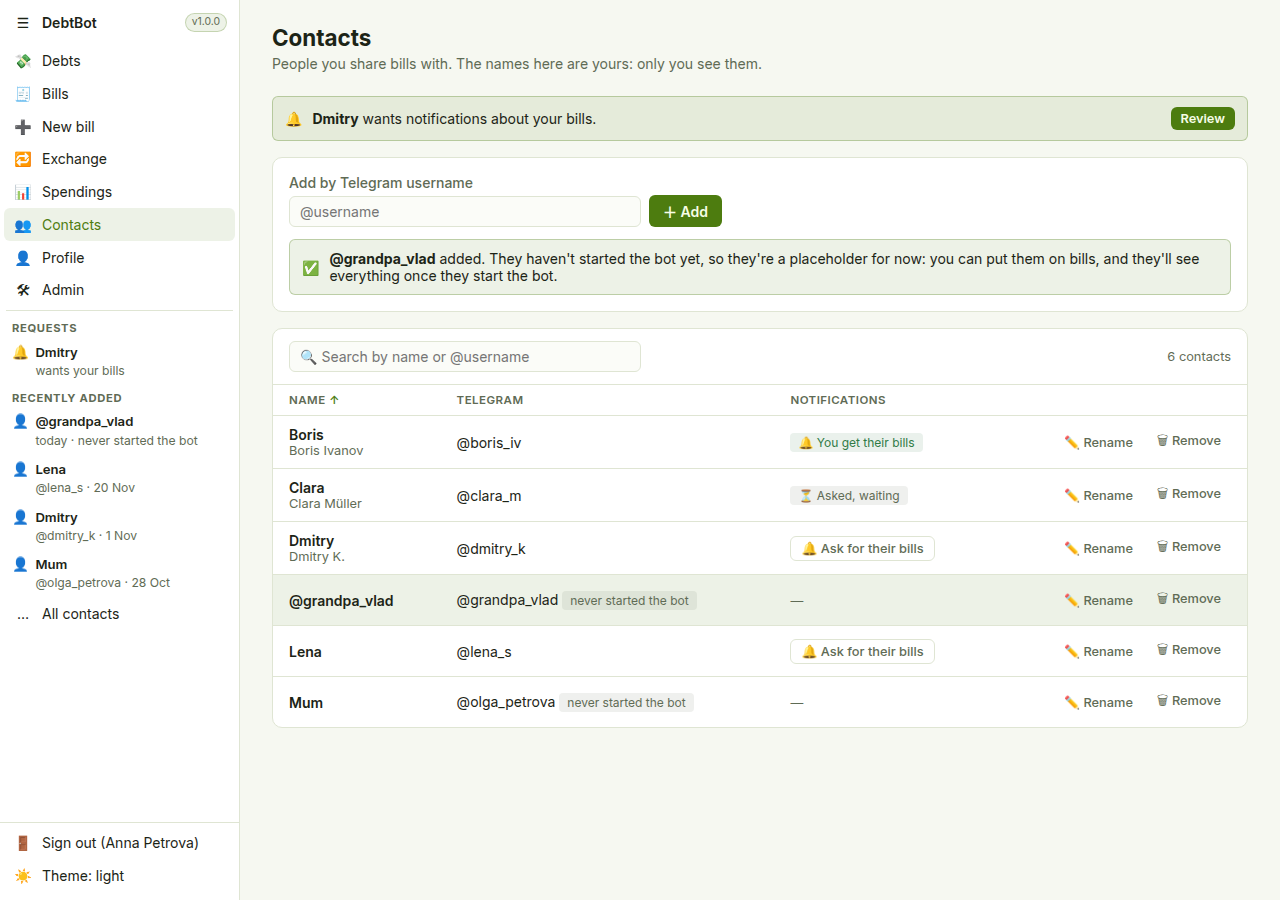
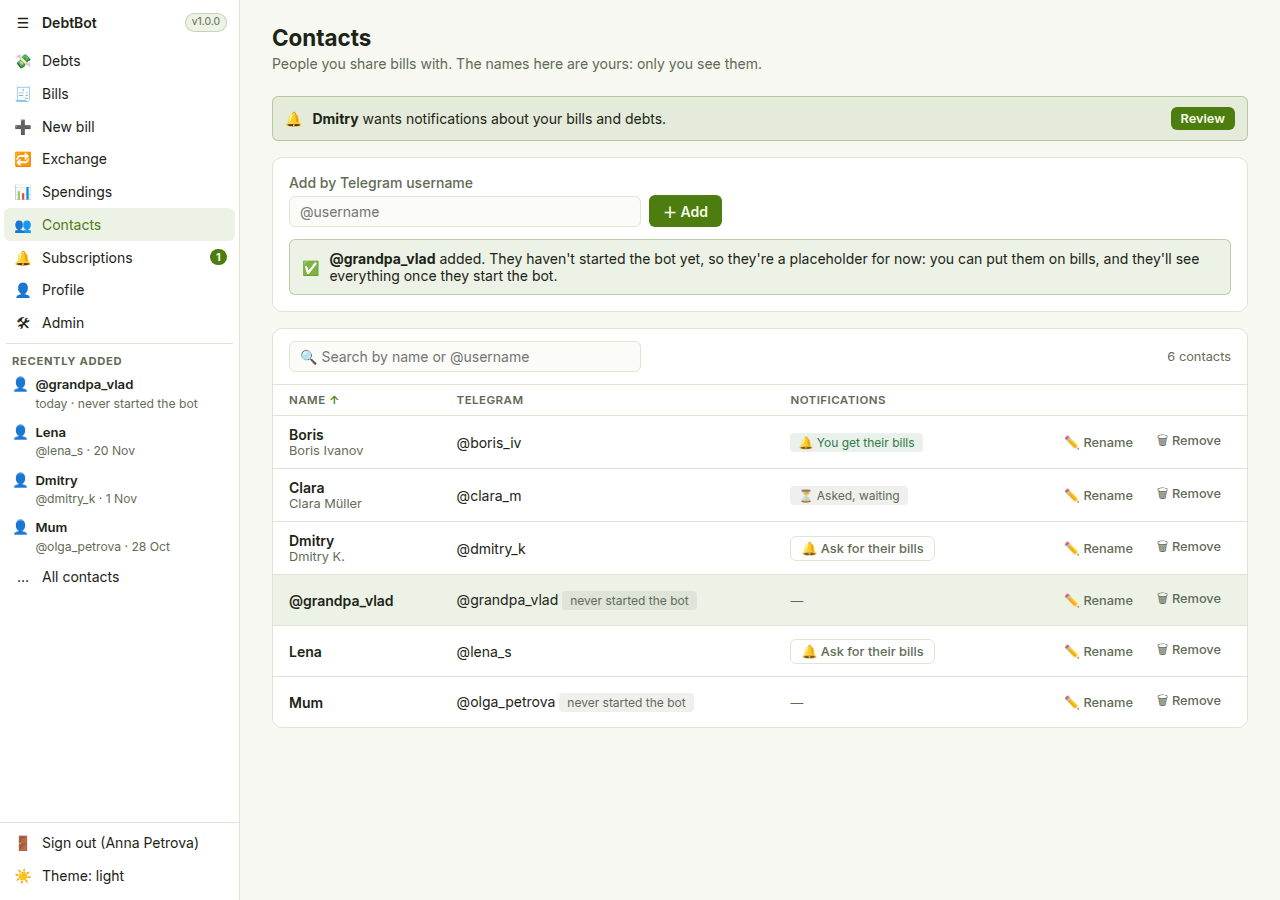
web-ui mockups: Subscriptions page and Profile approved; Contacts updated
Subscriptions moved out of Contacts into its own sidebar page after
Contacts (/subscriptions) with a count badge. Mockup shell nav updated.

Claude-Session: https://claude.ai/code/session_01LEFDEtN3pU82SKsCm3bDfW

Changed region(s): [[0.0, 0.28, 0.1562, 0.6844], [0.4688, 0.1244, 0.5312, 0.1556], [0.1562, 0.28, 0.1875, 0.3111]]

diff --git a/DebtBot.Doc/web-ui/mockups/profile/profile.html b/DebtBot.Doc/web-ui/mockups/profile/profile.html
@@ -1,0 +1,100 @@
+<!doctype html>
+<html lang="en">
+<head>
+<meta charset="utf-8">
+<meta name="viewport" content="width=device-width, initial-scale=1">
+<title>DebtBot Profile mockup</title>
+<link rel="stylesheet" href="../common/mock.css">
+<style>
+  .form { max-width: 34rem; }
+  .field + .field { margin-top: 1rem; }
+  .field .help { margin-top: .3rem; font-size: .8rem; color: var(--text-muted); }
+  .field .err { margin-top: .3rem; font-size: .8rem; color: var(--danger); }
+  .input.bad { border-color: var(--danger); box-shadow: 0 0 0 3px color-mix(in srgb, var(--danger) 18%, transparent); }
+  .foot { display: flex; align-items: center; gap: .75rem; margin-top: 1.25rem; flex-wrap: wrap; }
+  .ok { color: var(--success); font-size: .875rem; }
+  .kv { display: grid; grid-template-columns: 10rem 1fr; gap: .6rem 1rem; font-size: .9rem; align-items: center; }
+  .phone .kv { grid-template-columns: 1fr; gap: .15rem; }
+  .phone .kv dd { margin-bottom: .6rem; }
+  .kv dt { color: var(--text-muted); }
+  .kv dd { margin: 0; }
+  .mb { margin-bottom: 1rem; }
+  ol.steps { margin: .5rem 0 0; padding-left: 1.25rem; font-size: .9rem; line-height: 1.7; }
+  code { font-family: ui-monospace, monospace; font-size: .85em; background: var(--surface-2); border-radius: 4px; padding: .05rem .35rem; }
+</style>
+</head>
+<body>
+<script>
+  const field = (label, value, o = {}) => `<div class="field"><label class="label">${label}</label>
+    <input class="input${o.bad ? ' bad' : ''}${o.focus ? ' focus' : ''}" ${o.type ? `type="${o.type}"` : ''} value="${value}" placeholder="${o.ph ?? ''}"${o.ro ? ' readonly style="opacity:.7"' : ''}>
+    ${o.err ? `<div class="err">${o.err}</div>` : o.help ? `<div class="help">${o.help}</div>` : ''}</div>`
+  const dots = '••••••••••'
+
+  function details(state) {
+    const bad = state === 'details-error'
+    return `<div class="title-row"><h1>Profile</h1></div><p class="sub muted">How you appear to people you share bills with.</p>
+      <div class="card form"><div class="card-head"><h2>🪪 Details</h2></div><div class="card-body">
+        ${field('Display name', bad ? '' : 'Anna Petrova', { bad, err: bad ? 'Enter a name (1–100 characters).' : '', help: 'Contacts see their own name for you; this is the default.' })}
+        ${field('Phone', '+48 600 123 456', { ph: 'optional' })}
+        ${field('Email', bad ? 'anna.petrova.example.com' : 'anna@example.com', { bad, ph: 'optional', err: bad ? 'An email needs an @.' : '' })}
+        <div class="foot"><a class="btn btn-primary">Save</a>${state === 'details-saved' ? '<span class="ok">✓ Saved</span>' : '<a class="btn btn-ghost">Reset</a>'}</div>
+      </div></div>`
+  }
+
+  function password(state) {
+    const first = state === 'password-first'
+    const taken = state === 'password-taken'
+    const short = state === 'password-short'
+    const head = `<div class="title-row"><h1>Login &amp; password</h1></div>
+      <p class="sub muted">An extra way to sign in to the web app, besides Telegram. Optional.</p>`
+    if (first) return head + `<div class="card form"><div class="card-head"><h2>🔑 Set a login and password</h2></div><div class="card-body">
+        <div class="alert-info mb">ℹ <span>You sign in with Telegram now. Add a login and password to also sign in without it.</span></div>
+        ${field('Login', 'anna.p', { help: '3–64 characters: a–z, 0–9, . _ - @. Stored in lower case.' })}
+        ${field('Password', dots, { type: 'password', help: 'At least 8 characters.' })}
+        ${field('Repeat password', dots, { type: 'password' })}
+        <div class="foot"><a class="btn btn-primary">Set login and password</a></div>
+      </div></div>`
+    return head + `<div class="card form"><div class="card-head"><h2>🔑 Change login or password</h2><span class="grow"></span><span class="pill pill-success">Password set</span></div><div class="card-body">
+        ${taken ? '<div class="alert-danger mb">The login “anna” is taken. Pick another one.</div>' : ''}
+        ${field('Login', taken ? 'anna' : 'anna.p', { bad: taken, focus: taken, help: 'Change it here, or leave it as it is.' })}
+        ${field('Current password', dots, { type: 'password', help: 'Needed for any change.' })}
+        ${field('New password', short ? '•••••' : '', { type: 'password', ph: 'leave empty to keep it', bad: short, err: short ? 'At least 8 characters.' : '' })}
+        ${field('Repeat new password', short ? '•••••' : '', { type: 'password' })}
+        <div class="foot"><a class="btn btn-primary">Save changes</a>${state === 'password-saved' ? '<span class="ok">✓ Saved. Use the new login and password next time.</span>' : ''}</div>
+      </div></div>`
+  }
+
+  function telegram(state) {
+    const off = state === 'telegram-off'
+    return `<div class="title-row"><h1>Telegram</h1></div><p class="sub muted">Your account is your Telegram identity. It can't be changed here.</p>
+      <div class="card form mb"><div class="card-head"><h2>✈ Account</h2></div><div class="card-body">
+        <dl class="kv" style="margin:0">
+          <dt>Username</dt><dd class="num">@anna_petrova</dd>
+          <dt>Telegram id</dt><dd class="num">184220911</dd>
+          <dt>Role</dt><dd><span class="pill pill-accent">Admin</span></dd>
+        </dl>
+      </div></div>
+      <div class="card form"><div class="card-head"><h2>🤖 The bot</h2><span class="grow"></span>${off ? '<span class="pill pill-danger">Not started</span>' : '<span class="pill pill-success">Started</span>'}</div><div class="card-body">
+        ${off ? `<p style="margin:0">You haven't started <b>@DebtSplitBot</b> yet, so it can't send you anything, such as notifications about new bills.</p>
+          <ol class="steps"><li>Open <a class="link">t.me/DebtSplitBot</a> in Telegram.</li><li>Press <b>Start</b> (or send <code>/start</code>).</li><li>Come back and reload this page.</li></ol>
+          <div class="foot"><a class="btn btn-primary">Open @DebtSplitBot ↗</a></div>`
+        : `<p style="margin:0">You've started <b>@DebtSplitBot</b>. It messages you about new bills and the notifications you've agreed to.</p>
+          <div class="foot"><a class="btn btn-secondary">Open @DebtSplitBot ↗</a></div>`}
+      </div></div>`
+  }
+
+  window.MOCK = {
+    page: 'profile',
+    ctxFor: (s) => ['S:Sections',
+      { i: '🪪', t: 'Details', s: 'Name, phone, email', a: s.startsWith('details') },
+      { i: '🔑', t: 'Login &amp; password', s: 'Web sign-in', a: s.startsWith('password') },
+      { i: '✈', t: 'Telegram', s: 'Account and bot', a: s.startsWith('telegram') }],
+    render(state) {
+      if (state === 'main') state = 'details'
+      return state.startsWith('password') ? password(state) : state.startsWith('telegram') ? telegram(state) : details(state)
+    },
+  }
+</script>
+<script src="../common/shell.js"></script>
+</body>
+</html>

diff --git a/DebtBot.Doc/web-ui/mockups/contacts/contacts.html b/DebtBot.Doc/web-ui/mockups/contacts/contacts.html
@@ -63,7 +63,7 @@
     const head = `<div class="title-row"><h1>Contacts</h1></div><p class="sub muted">People you share bills with. The names here are yours: only you see them.</p>`
     if (state === 'empty') return head + addCard(state) + `<div class="card empty"><div class="big">👥</div><p style="font-weight:600">No contacts yet</p>
       <p class="muted" style="font-size:.875rem">Add someone by their Telegram username above. People you share a bill with are added automatically.</p></div>`
-    const req = `<div class="alert-info mb">🔔 <span style="flex:1"><b>Dmitry</b> wants notifications about your bills.</span><a class="btn btn-primary btn-sm">Review</a></div>`
+    const req = `<div class="alert-info mb">🔔 <span style="flex:1"><b>Dmitry</b> wants notifications about your bills and debts.</span><a class="btn btn-primary btn-sm">Review</a></div>`
     const q = state === 'search' ? 'bo' : ''
     let rows = q ? C.filter((c) => (c.name + c.own + c.tg).toLowerCase().includes(q)) : C
     const added = state === 'added' ? [{ id: 'g', name: '@grandpa_vlad', own: '@grandpa_vlad', tg: '@grandpa_vlad', bot: false, my: 'None', their: 'None', hl: true }] : []
@@ -92,32 +92,10 @@
   }
   const noMatch = `<div class="empty"><div class="big">🔍</div><p style="font-weight:600">No contacts match</p><p class="muted" style="font-size:.875rem">Try part of a name or a @username.</p></div>`
 
-  function requestsPage(state, phone) {
-    const empty = state === 'requests-empty'
-    const head = `<div class="title-row"><h1>Notifications about bills</h1></div>
-      <p class="sub muted">The bot can tell someone in Telegram when you're on a new bill, and tell you about theirs. Both sides have to agree.</p>`
-    const row = (who, sub, right) => `<div class="prow"><div class="who"><div class="name">${who}</div><div class="muted small">${sub}</div></div><div class="row">${right}</div></div>`
-    const sec = (t, s, inner) => `<div class="card mb"><div class="sec-title"><h2>${t}</h2><span class="muted">${s}</span></div>${inner}</div>`
-    if (empty) return head
-      + sec('Asking for your bills', 'confirm or decline', '<div class="none muted">No requests.</div>')
-      + sec('Get your bills', 'people you confirmed', '<div class="none muted">Nobody yet.</div>')
-      + sec('Your subscriptions', 'whose bills you get', '<div class="none muted">None. Use 🔔 Ask for their bills on Contacts.</div>')
-    return head
-      + sec('Asking for your bills', 'confirm or decline',
-        row('Dmitry', '@dmitry_k · asked to be told about your bills', '<a class="btn btn-primary btn-sm">✓ Confirm</a><a class="btn btn-secondary btn-sm">Decline</a>'))
-      + sec('Get your bills', 'people you confirmed',
-        row('Boris', '@boris_iv', '<span class="pill pill-success">Confirmed</span><a class="btn btn-ghost btn-sm">Stop</a>'))
-      + sec('Your subscriptions', 'whose bills you get',
-        row('Boris', '@boris_iv', '<span class="pill pill-success">🔔 You get their bills</span><a class="btn btn-ghost btn-sm">Stop</a>')
-        + row('Clara', '@clara_m', '<span class="pill pill-muted">⏳ Waiting for Clara</span><a class="btn btn-ghost btn-sm">Withdraw</a>'))
-  }
-
   window.MOCK = {
     page: 'contacts',
+    badges: { subscriptions: 1 },
     ctxFor: (s) => [
-      'S:Requests',
-      ...(s === 'requests-empty' || s === 'empty' ? [{ i: '✅', t: 'No requests', s: 'Nobody is waiting' }]
-        : [{ i: '🔔', t: 'Dmitry', s: 'wants your bills', a: s.startsWith('requests') }]),
       'S:Recently added',
       ...(s === 'empty' ? [{ i: '👤', t: 'Nobody yet', s: 'Add someone by @username' }] : [
         ...(s === 'added' ? [{ i: '👤', t: '@grandpa_vlad', s: 'today · never started the bot' }] : []),
@@ -125,7 +103,7 @@
         { i: '👤', t: 'Dmitry', s: '@dmitry_k · 1 Nov' },
         { i: '👤', t: 'Mum', s: '@olga_petrova · 28 Oct' }]),
       'A:All contacts'],
-    render(state, phone) { return state.startsWith('requests') ? requestsPage(state, phone) : contactsPage(state, phone) },
+    render(state, phone) { return contactsPage(state, phone) },
   }
 </script>
 <script src="../common/shell.js"></script>

diff --git a/DebtBot.Doc/web-ui/mockups/subscriptions/subscriptions.html b/DebtBot.Doc/web-ui/mockups/subscriptions/subscriptions.html
@@ -1,0 +1,56 @@
+<!doctype html>
+<html lang="en">
+<head>
+<meta charset="utf-8">
+<meta name="viewport" content="width=device-width, initial-scale=1">
+<title>DebtBot Subscriptions mockup</title>
+<link rel="stylesheet" href="../common/mock.css">
+<style>
+  .name { font-weight: 600; }
+  .small { font-size: .8rem; }
+  .mb { margin-bottom: 1rem; }
+  .sec-title { padding: .75rem 1rem; border-bottom: 1px solid var(--border); display: flex; flex-wrap: wrap; align-items: baseline; gap: .25rem .5rem; }
+  .sec-title .muted { font-size: .8rem; }
+  .prow { display: flex; flex-wrap: wrap; align-items: center; gap: .5rem .75rem; padding: .75rem 1rem; border-top: 1px solid var(--border); }
+  .prow:first-of-type { border-top: 0; }
+  .prow .who { flex: 1; min-width: 10rem; }
+  .none { padding: .9rem 1rem; font-size: .875rem; }
+</style>
+</head>
+<body>
+<script>
+  // Built from GET UserContacts/Own: theirSubscription (they get yours) and mySubscription (you get theirs).
+  function page(state) {
+    const empty = state === 'empty'
+    const head = `<div class="title-row"><h1>Subscriptions</h1></div>
+      <p class="sub muted">The bot can tell someone in Telegram about your new bills and debts, and tell you about theirs. Both sides have to agree.</p>`
+    const row = (who, sub, right) => `<div class="prow"><div class="who"><div class="name">${who}</div><div class="muted small">${sub}</div></div><div class="row">${right}</div></div>`
+    const sec = (t, s, inner) => `<div class="card mb"><div class="sec-title"><h2>${t}</h2><span class="muted">${s}</span></div>${inner}</div>`
+    if (empty) return head
+      + sec('Requests', 'people asking for your bills and debts', '<div class="none muted">No requests.</div>')
+      + sec('Get your bills and debts', 'people you confirmed', '<div class="none muted">Nobody yet.</div>')
+      + sec('Your subscriptions', 'whose bills and debts you get', '<div class="none muted">None yet. Use 🔔 Ask for their bills on Contacts.</div>')
+    return head
+      + sec('Requests', 'people asking for your bills and debts',
+        row('Dmitry', '@dmitry_k', '<a class="btn btn-primary btn-sm">✓ Confirm</a><a class="btn btn-secondary btn-sm">Decline</a>'))
+      + sec('Get your bills and debts', 'people you confirmed',
+        row('Boris', '@boris_iv', '<span class="pill pill-success">Confirmed</span><a class="btn btn-ghost btn-sm">Stop</a>'))
+      + sec('Your subscriptions', 'whose bills and debts you get',
+        row('Boris', '@boris_iv', '<span class="pill pill-success">🔔 You get theirs</span><a class="btn btn-ghost btn-sm">Stop</a>')
+        + row('Clara', '@clara_m', '<span class="pill pill-muted">⏳ Waiting for Clara</span><a class="btn btn-ghost btn-sm">Withdraw</a>'))
+  }
+
+  const empty = new URLSearchParams(location.search).get('state') === 'empty'
+  window.MOCK = {
+    page: 'subscriptions',
+    badges: empty ? {} : { subscriptions: 1 },
+    ctxFor: (s) => ['S:Summary',
+      { i: '🔔', t: 'Requests', s: s === 'empty' ? 'nobody is waiting' : '1 waiting for you' },
+      { i: '📤', t: 'Get your bills and debts', s: s === 'empty' ? 'nobody' : '1 person' },
+      { i: '📥', t: 'Your subscriptions', s: s === 'empty' ? 'none' : '1 confirmed · 1 waiting' }],
+    render: (state) => page(state),
+  }
+</script>
+<script src="../common/shell.js"></script>
+</body>
+</html>

diff --git a/DebtBot.Doc/web-ui/mockups/common/shell.js b/DebtBot.Doc/web-ui/mockups/common/shell.js
@@ -3,8 +3,10 @@
 const q = new URLSearchParams(location.search)
 const NAV = [
   ['debts', '💸', 'Debts'], ['bills', '🧾', 'Bills'], ['new', '➕', 'New bill'], ['exchange', '🔁', 'Exchange'],
-  ['spendings', '📊', 'Spendings'], ['contacts', '👥', 'Contacts'], ['profile', '👤', 'Profile'], ['admin', '🛠', 'Admin'],
+  ['spendings', '📊', 'Spendings'], ['contacts', '👥', 'Contacts'], ['subscriptions', '🔔', 'Subscriptions'], ['profile', '👤', 'Profile'], ['admin', '🛠', 'Admin'],
 ]
+// Optional nav badges: MOCK.badges = { subscriptions: 1, admin: 3 } (hidden on the collapsed phone rail).
+const navBadge = (k) => MOCK.badges?.[k] && q.get('phone') !== '1' ? `<span class="count">${MOCK.badges[k]}</span>` : ''
 const phone = q.get('phone')
 const state = q.get('state') ?? 'main'
 const dark = q.get('theme') === 'dark'
@@ -21,7 +23,7 @@ document.body.innerHTML = `
   <aside class="${phone === 'open' ? 'open' : phone ? 'collapsed' : ''}">
     <div class="top"><button class="sidebar-btn"><span class="s-icon">☰</span><span class="s-label" style="font-weight:600">DebtBot</span><span class="version-pill">v1.0.0</span></button></div>
     <nav>
-      ${NAV.map(([k, i, l]) => `<a class="sidebar-btn${k === MOCK.page ? ' active' : ''}"><span class="s-icon">${i}</span><span class="s-label">${l}</span></a>`).join('')}
+      ${NAV.map(([k, i, l]) => `<a class="sidebar-btn${k === MOCK.page ? ' active' : ''}"><span class="s-icon">${i}</span><span class="s-label">${l}</span>${navBadge(k)}</a>`).join('')}
       <div class="ctx"><div class="divider"></div>${ctxHtml}</div>
     </nav>
     <div class="bottom">

diff --git a/DebtBot.Doc/web-ui/mockups/contacts/README.md b/DebtBot.Doc/web-ui/mockups/contacts/README.md
@@ -1,15 +1,15 @@
 # Contacts (approved 2026-11-24)
 
-`contacts.html` (query: `theme=dark`, `phone=1|open`, `state=main|search|added|add-error|rename|remove|empty|requests|requests-empty`) and the PNGs are the spec for 👥 Contacts (T7).
+`contacts.html` (query: `theme=dark`, `phone=1|open`, `state=main|search|added|add-error|rename|remove|empty`) and the PNGs are the spec for 👥 Contacts (T7).
 
 ## URLs
 - `/contacts?q=` — the contact list; `q` is the search text (left out when empty). Typing replaces the history entry (no entry per keystroke), like `FilterText`.
-- `/contacts/requests` — notifications about bills (subscriptions).
+- Subscriptions moved to their own page, `/subscriptions` (see `../subscriptions/README.md`). There is no `/contacts/requests`.
 
 ## `/contacts`
 Not a paged list: `GET UserContacts/Own` returns every contact, so search, sort (by your name, A–Z) and the count are done in the browser.
 
-1. **Request banner** (`alert-info`), only when someone is waiting (a contact with `theirSubscription = Pending`): "🔔 **Dmitry** wants notifications about your bills." with **Review** → `/contacts/requests`. With several: "**Dmitry** and 2 others want …". Hidden while searching.
+1. **Request banner** (`alert-info`), only when someone is waiting (a contact with `theirSubscription = Pending`): "🔔 **Dmitry** wants notifications about your bills and debts." with **Review** → `/subscriptions`. With several: "**Dmitry** and 2 others want …". Hidden while searching.
 2. **Add card:** "Add by Telegram username", an `@username` input and **＋ Add** (`POST UserContacts/Own/by-telegram?username=`; the `@` is optional, the API strips it). Hint below: "Works for people who haven't started the bot yet, too."
    - Success: the input clears, the new row is highlighted (`hl`) in the list, and an `alert-info` replaces the hint: for a placeholder (`telegramBotEnabled = false`) "✅ **@name** added. They haven't started the bot yet, so they're a placeholder for now: you can put them on bills, and they'll see everything once they start the bot."; otherwise "✅ **Name** added."
    - An existing contact comes back unchanged: say "**Name** is already in your contacts." and highlight the row.
@@ -23,30 +23,19 @@ Not a paged list: `GET UserContacts/Own` returns every contact, so search, sort 
    - Search with no match: 🔍 "No contacts match", "Try part of a name or a @username."
 4. **Empty** (no contacts): the add card, then 👥 "No contacts yet", "Add someone by their Telegram username above. People you share a bill with are added automatically."
 
-## `/contacts/requests`
-Title "Notifications about bills", subtitle "The bot can tell someone in Telegram when you're on a new bill, and tell you about theirs. Both sides have to agree." Three cards, each a list of rows (name, muted @username, actions on the right):
-
-| Card | Who | Actions |
-|---|---|---|
-| **Asking for your bills** — confirm or decline | `theirSubscription = Pending` | ✓ Confirm (`subscription/confirm`), Decline (`subscription/decline`) |
-| **Get your bills** — people you confirmed | `theirSubscription = Confirmed` | pill Confirmed, Stop (`subscription/decline`) |
-| **Your subscriptions** — whose bills you get | `mySubscription` `Confirmed` / `Pending` | Confirmed: pill "🔔 You get their bills" + **Stop**; Pending: pill "⏳ Waiting for <name>" + **Withdraw** (both the new `subscription/cancel`) |
-
-Empty cards say "No requests." / "Nobody yet." / "None. Use 🔔 Ask for their bills on Contacts."
-
 ## Sidebar sub-section
-- **Requests:** one entry per contact with `theirSubscription = Pending` (🔔, name, "wants your bills"), opening `/contacts/requests`; none: ✅ "No requests", "Nobody is waiting".
 - **Recently added:** the 3 newest contacts by `addedAt` (👤, your name, "@username · 20 Nov"; "today · never started the bot" for a fresh placeholder); none: "Nobody yet", "Add someone by @username".
 - **… All contacts** → `/contacts`.
 
 ## User decisions (rounds)
 - Before round 1: **subscriptions stay in the web UI** (request, confirm, decline), with `/contacts/requests` and the Requests sub-section. This is about the bot's Telegram notifications; the web UI still never shows other people's debts (T5's "no following").
 - Round 1 → 2: **add an "added on" date** to contacts (for Recently added), and **add Stop / Withdraw** for your own subscriptions (new endpoint).
-- Approved in round 2.
+- Round 2 → 3 (with the Profile round): subscriptions looked like one selected request in the Contacts sub-section, and couldn't be reached with no requests. So **🔔 Subscriptions became its own sidebar page** after Contacts (`/subscriptions`), with a count badge; Contacts lost its Requests sub-section. Wording: notifications about **bills and debts**.
+- Approved in round 2; the move approved with Subscriptions.
 
 ## API
-`GET UserContacts/Own`, `POST UserContacts/Own/by-telegram?username=`, `PUT UserContacts/Own/{id}`, `DELETE UserContacts/Own/{id}`, `POST UserContacts/subscription/request|confirm|decline?contactId=`, and the new `subscription/cancel` below. After any change, refetch contacts (the sidebar uses the same query).
+`GET UserContacts/Own`, `POST UserContacts/Own/by-telegram?username=`, `PUT UserContacts/Own/{id}`, `DELETE UserContacts/Own/{id}`, `POST UserContacts/subscription/request?contactId=` (the Ask button). Confirm, decline and cancel are on `/subscriptions`. After any change, refetch contacts (the sidebar uses the same query).
 
 ## Backend needs (T7)
 - **`Contact.addedAt`** (`string`, ISO UTC): when the contact link was created. Needs a column on the user-contact link (a migration via `dotnet ef`; existing rows get the migration time or null — if null, sort them last and show no date).
-- **New `POST UserContacts/subscription/cancel?contactId=`**: removes *your own* subscription to `contactId`, pending or confirmed (the mirror of `decline`, which removes theirs to you). 200; 404 `{ message }` when there is none; acts for the signed-in user only.
+- **New `POST UserContacts/subscription/cancel?contactId=`** (used on `/subscriptions`): removes *your own* subscription to `contactId`, pending or confirmed (the mirror of `decline`, which removes theirs to you). 200; 404 `{ message }` when there is none; acts for the signed-in user only.

diff --git a/DebtBot.Doc/web-ui/mockups/profile/README.md b/DebtBot.Doc/web-ui/mockups/profile/README.md
@@ -1,0 +1,37 @@
+# Profile (approved 2026-11-24)
+
+`profile.html` (query: `theme=dark`, `phone=1|open`, `state=details|details-error|details-saved|password-first|password-change|password-taken|password-short|password-saved|telegram|telegram-off`) and the PNGs are the spec for 👤 Profile (T7).
+
+## URLs and sub-section
+The sub-section T4 built stays as it is: **Sections** — 🪪 Details "Name, phone, email" (`/profile`), 🔑 Login & password "Web sign-in" (`/profile/password`), ✈ Telegram "Account and bot" (`/profile/telegram`). The current one is highlighted. Each is its own page with one card (max width ~34rem).
+
+## Details — `/profile`
+- Title "Profile", subtitle "How you appear to people you share bills with."
+- Card "🪪 Details": Display name (help: "Contacts see their own name for you; this is the default."), Phone (placeholder "optional"), Email (placeholder "optional"). Save (primary) and Reset (ghost, back to the loaded values).
+- `GET profile` to load, `PUT profile { displayName, phone, email }` to save (empty phone or email clears it).
+- Validation shows under each field in danger colour with a danger border, checked in the browser first and from the API's 400 `errors`: "Enter a name (1–100 characters).", "An email needs an @.", phone ≤ 32, email ≤ 254.
+- After saving: "✓ Saved" (success colour) next to Save; the sidebar's sign-out label ("Sign out (Name)") updates with the new name.
+
+## Login & password — `/profile/password`
+Title "Login & password", subtitle "An extra way to sign in to the web app, besides Telegram. Optional." `PUT auth/password { login?, currentPassword?, newPassword? }`.
+- **First time** (`login` null and `hasPassword` false): card "🔑 Set a login and password", `alert-info` "You sign in with Telegram now. Add a login and password to also sign in without it.", then Login (help "3–64 characters: a–z, 0–9, . _ - @. Stored in lower case."), Password (help "At least 8 characters."), Repeat password, button "Set login and password". Sends `login` and `newPassword`.
+- **Later:** card "🔑 Change login or password" with a success pill "Password set" in the header; Login (prefilled, help "Change it here, or leave it as it is."), Current password (help "Needed for any change."), New password (placeholder "leave empty to keep it"), Repeat new password, "Save changes". Login only: send `login` + `currentPassword`; password: add `newPassword`.
+- **Errors:**
+  - 409 → `alert-danger` above the fields "The login “anna” is taken. Pick another one." and the login field marked;
+  - too short (checked before sending) → "At least 8 characters." under New password; repeat mismatch → "The passwords don't match." under the repeat field;
+  - a wrong current password or other 400 → the API's `message` in `alert-danger`.
+- After saving: "✓ Saved. Use the new login and password next time." and the form clears the password fields.
+
+## Telegram — `/profile/telegram`
+Title "Telegram", subtitle "Your account is your Telegram identity. It can't be changed here."
+- Card "✈ Account": Username (`@name`), Telegram id (plain digits), Role (accent pill "Admin" or muted "Regular"). Read-only, a two-column list (stacked on phones).
+- Card "🤖 The bot" with a pill in the header from `telegramBotEnabled`:
+  - **Started** (success pill): "You've started @Bot. It messages you about new bills and the notifications you've agreed to." and a secondary "Open @Bot ↗" button.
+  - **Not started** (danger pill): "You haven't started @Bot yet, so it can't send you anything, such as notifications about new bills." Steps: 1. Open t.me/Bot in Telegram. 2. Press **Start** (or send `/start`). 3. Come back and reload this page. Primary "Open @Bot ↗".
+  - The bot name and link come from `GET auth/config` (`telegramBotUsername`); if it's null, leave out the button and the link and say "the bot".
+
+## User decisions (rounds)
+- Approved in round 1, as shown. (In the same round the user moved subscriptions to their own sidebar page; see `../subscriptions/README.md`.)
+
+## Backend needs
+None: `GET`/`PUT profile`, `PUT auth/password` and `GET auth/config` cover it.

diff --git a/DebtBot.Doc/web-ui/mockups/subscriptions/README.md b/DebtBot.Doc/web-ui/mockups/subscriptions/README.md
@@ -1,0 +1,37 @@
+# Subscriptions (approved 2026-11-24)
+
+`subscriptions.html` (query: `theme=dark`, `phone=1|open`, `state=main|empty`) and the PNGs are the spec for 🔔 Subscriptions (T7).
+
+A subscription is the bot's Telegram notification about someone's new bills and debts. Both sides have to agree: one asks, the other confirms. The web UI still never shows other people's debts (T5's "no following"); this page only manages who the bot notifies.
+
+## Sidebar and URL
+- **A new top-level page** in the sidebar, right after 👥 Contacts: **🔔 Subscriptions** → `/subscriptions`. Nav order is now: Debts, Bills, New bill, Exchange, Spendings, Contacts, **Subscriptions**, Profile, Admin.
+- **Badge:** the nav button shows a count badge (`count` style: accent pill, as planned for Admin's merge badge) with the number of contacts whose `theirSubscription = Pending`. No badge at 0. Hidden on the collapsed phone rail, shown in the open drawer.
+- No query parameters: the page is small and not paged.
+
+## Page
+Title "Subscriptions", subtitle "The bot can tell someone in Telegram about your new bills and debts, and tell you about theirs. Both sides have to agree." Then three cards, each a list of rows (name bold, muted @username, actions on the right). All built from `GET UserContacts/Own` (`mySubscription`, `theirSubscription`).
+
+| Card (title — muted hint) | Who | Right side |
+|---|---|---|
+| **Requests** — people asking for your bills and debts | `theirSubscription = Pending` | ✓ Confirm (primary, `subscription/confirm`), Decline (secondary, `subscription/decline`) |
+| **Get your bills and debts** — people you confirmed | `theirSubscription = Confirmed` | success pill "Confirmed", Stop (ghost, `subscription/decline`) |
+| **Your subscriptions** — whose bills and debts you get | `mySubscription` `Confirmed` or `Pending` | Confirmed: success pill "🔔 You get theirs" + Stop; Pending: muted pill "⏳ Waiting for <name>" + Withdraw (both the new `subscription/cancel`) |
+
+- Empty cards: "No requests." / "Nobody yet." / "None yet. Use 🔔 Ask for their bills on Contacts."
+- Asking is done from the Contacts list ("🔔 Ask for their bills", `subscription/request`).
+- After any action, refetch contacts (the badge, Contacts and this page share the query). Errors from the API show as `alert-danger` above the cards.
+
+## Sidebar sub-section
+**Summary**, three plain entries (none highlighted, so it doesn't look like one request is selected), each scrolling to its card:
+- 🔔 Requests — "1 waiting for you" / "nobody is waiting";
+- 📤 Get your bills and debts — "1 person" / "nobody";
+- 📥 Your subscriptions — "1 confirmed · 1 waiting" / "none".
+
+## User decisions (rounds)
+- During Contacts: subscriptions belong in the web UI; add Stop / Withdraw for your own subscriptions.
+- Profile round: the Requests entries in the Contacts sub-section looked like one selected request, and the page was unreachable when there were no requests. So subscriptions get **their own sidebar button after Contacts**, called **Subscriptions**, about **bills and debts**. Approved in its first round.
+
+## Backend needs (T7)
+- New `POST UserContacts/subscription/cancel?contactId=` (see `../contacts/README.md`).
+- Check the wording against what the bot really sends to subscribers (bills, and debts via `/Debts` with subscriptions); adjust the subtitle if it differs.
